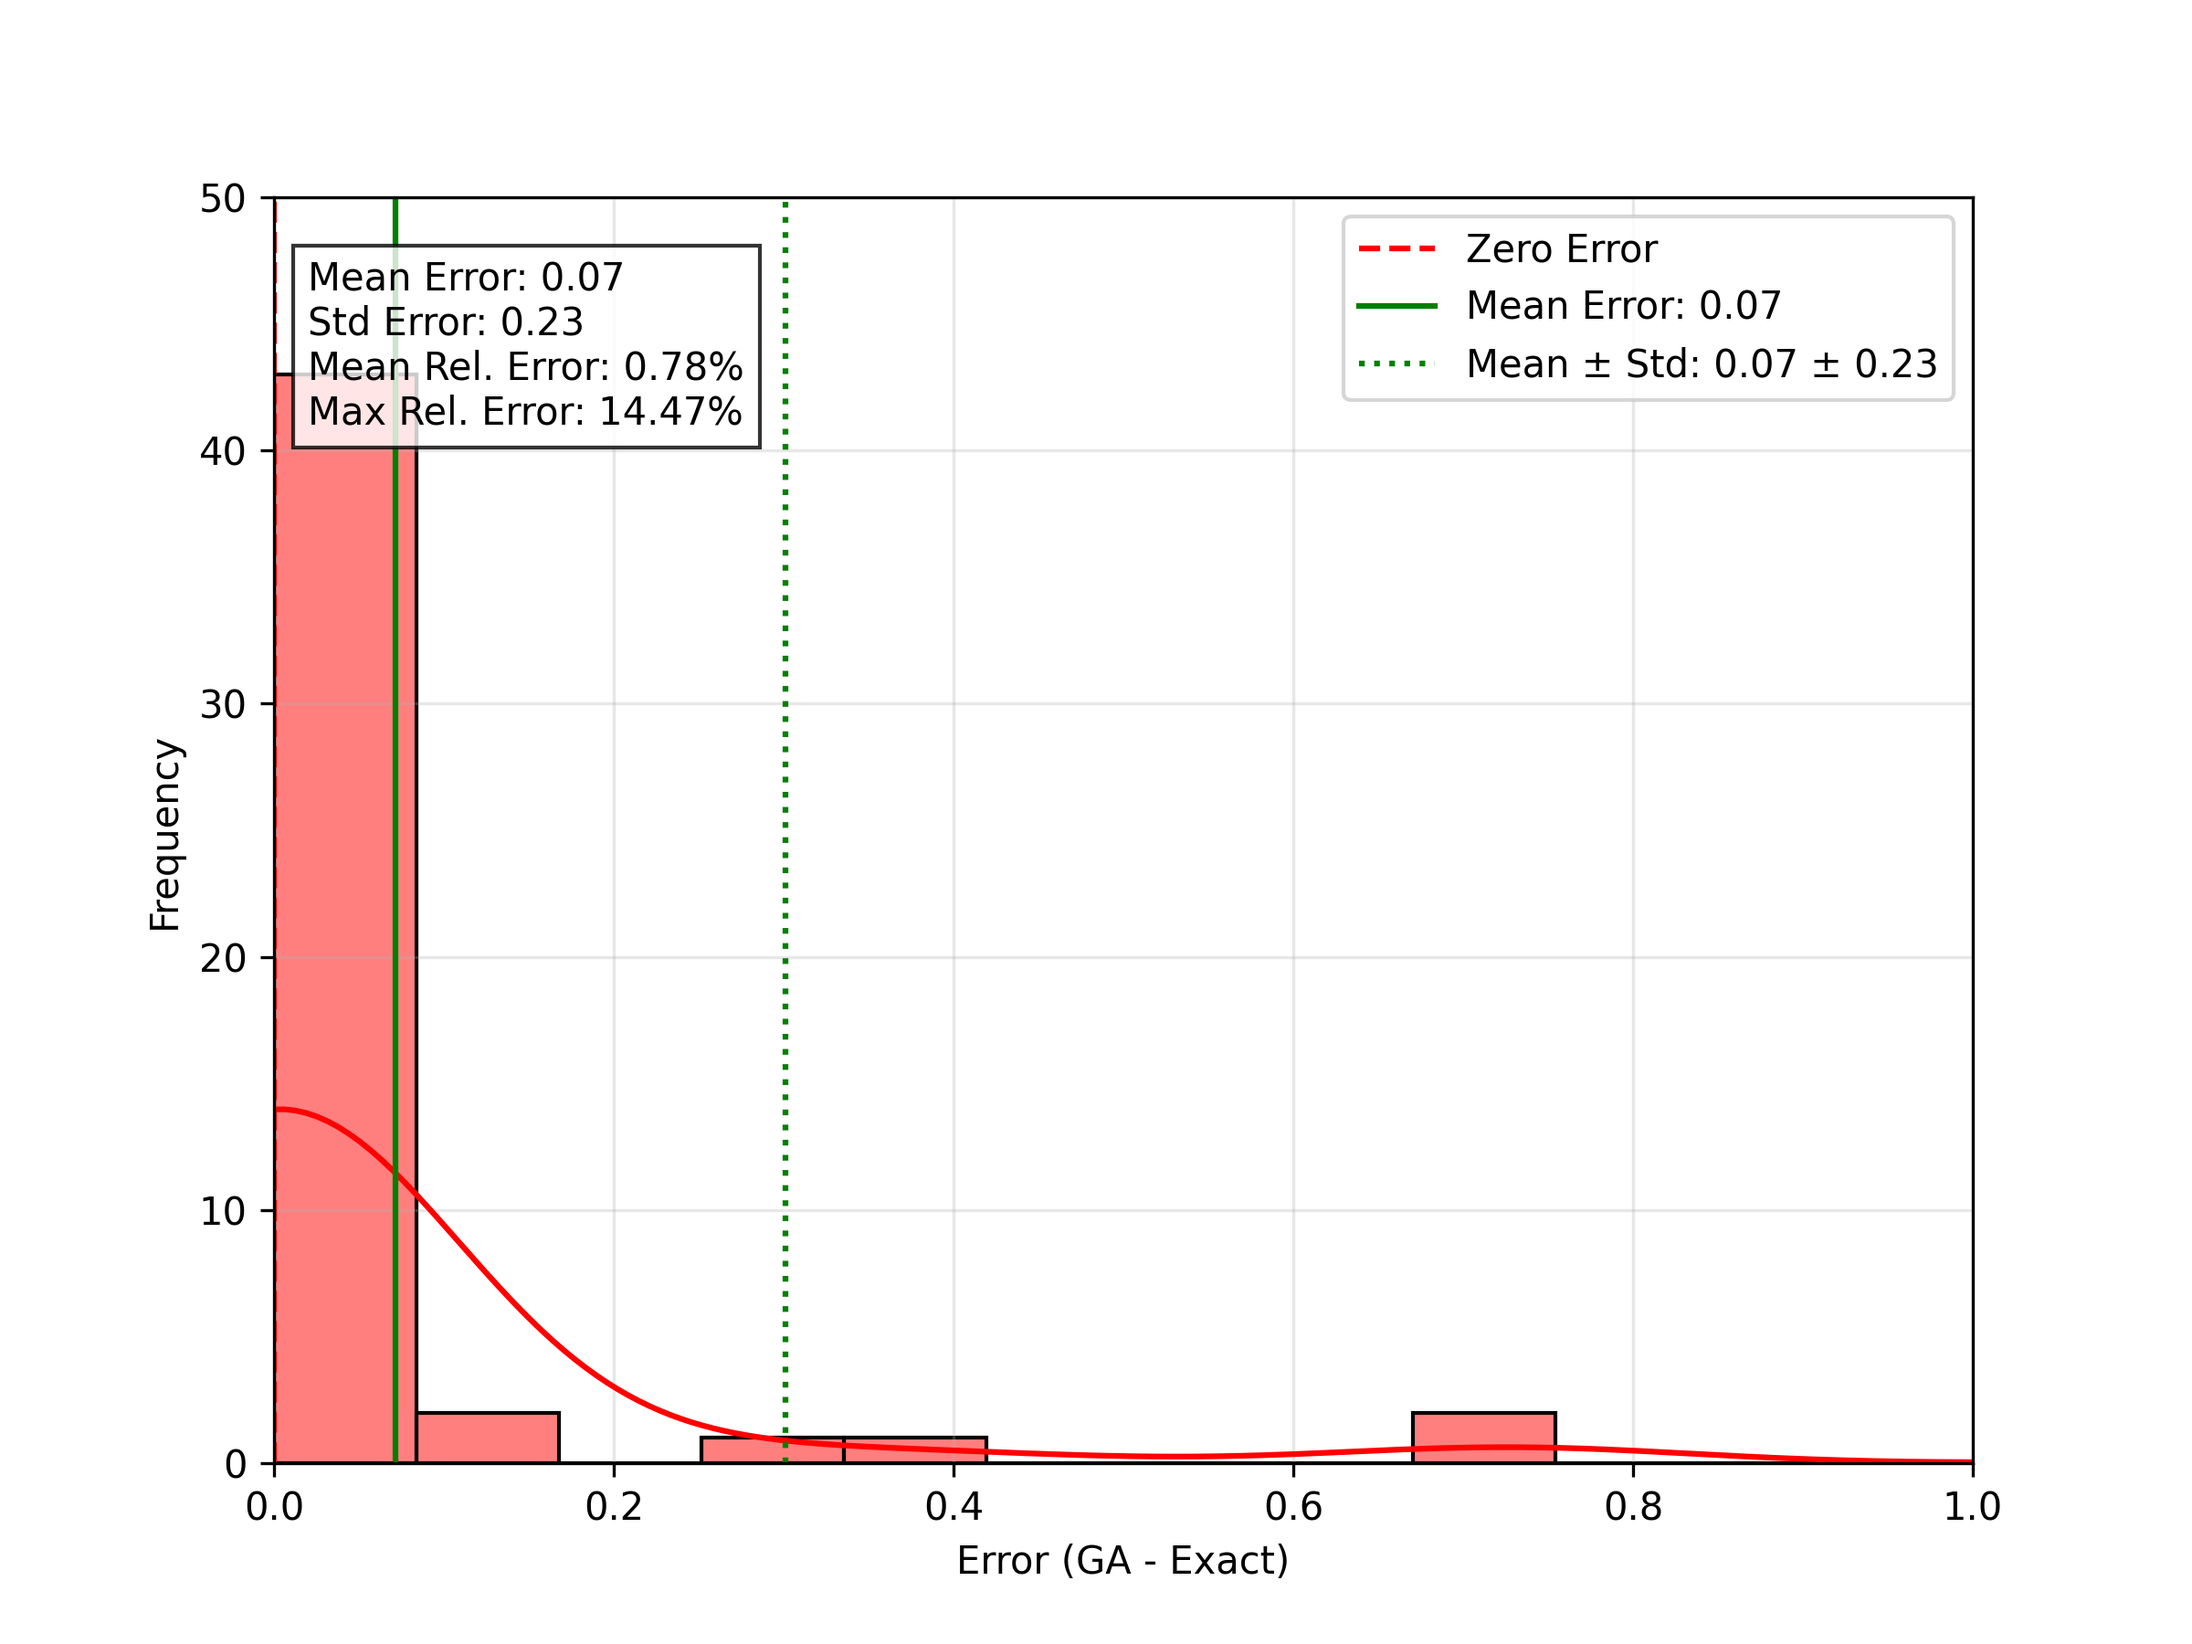
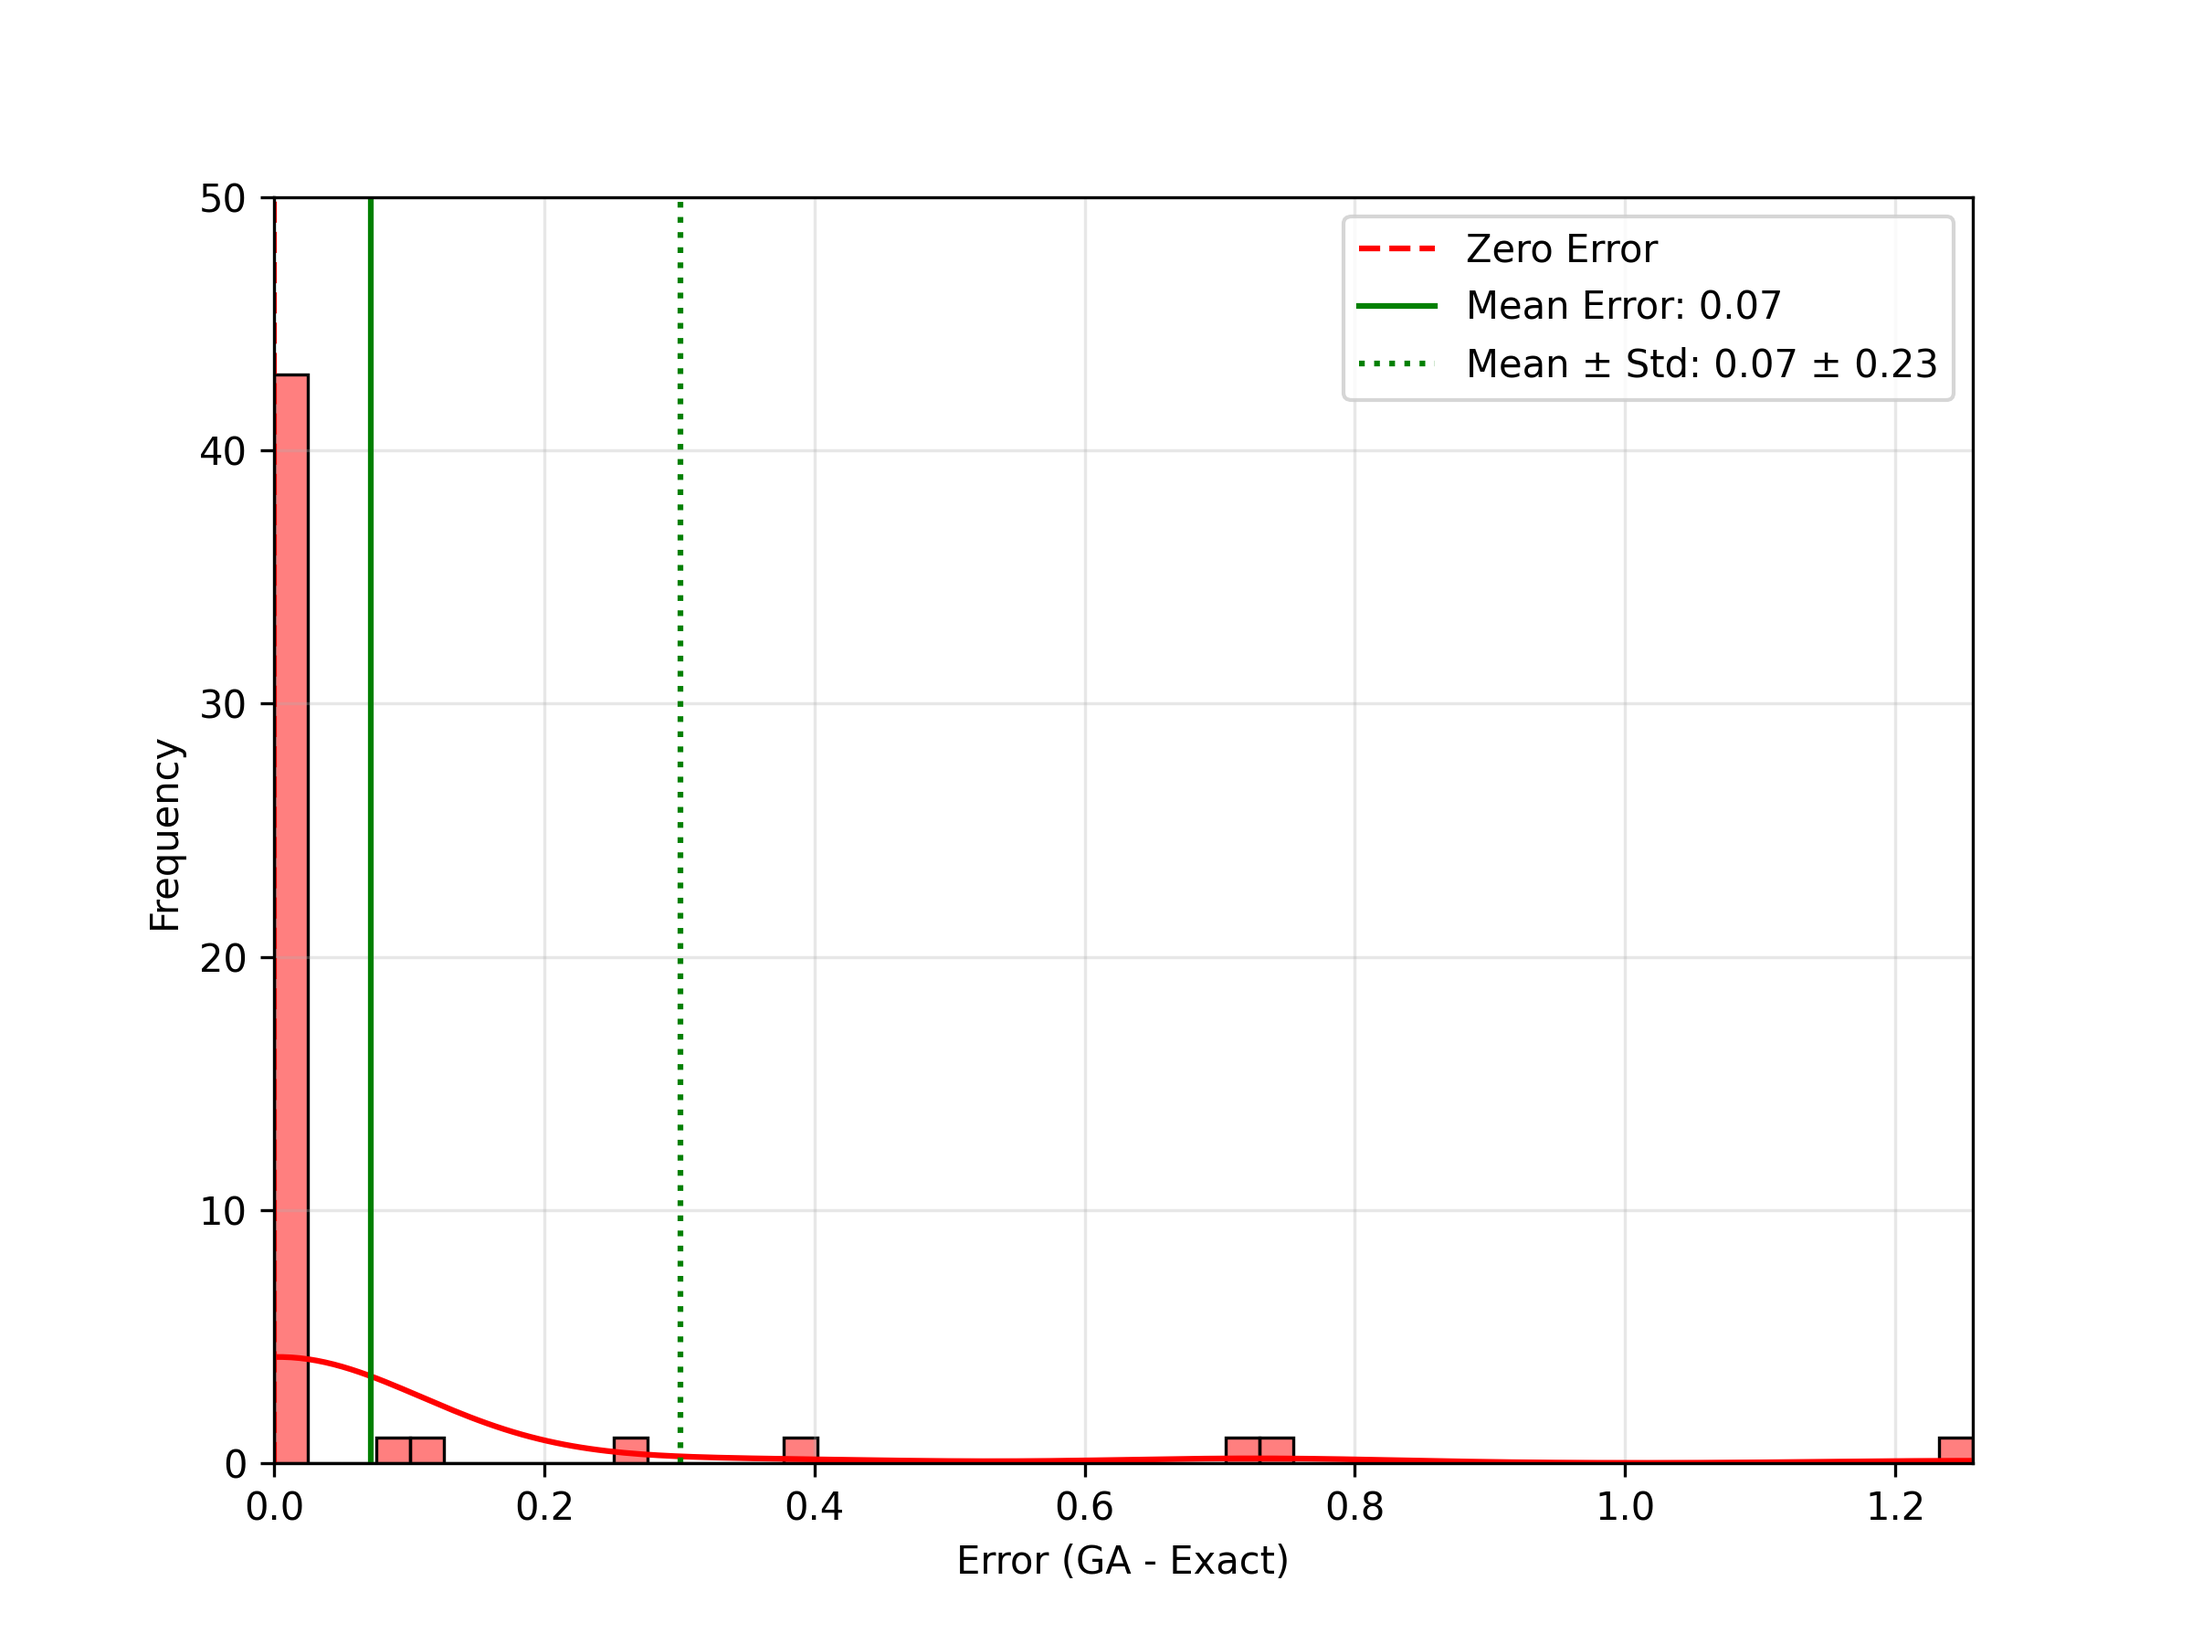
Plot: mse

diff --git a/src/utils/visualization.py b/src/utils/visualization.py
@@ -122,7 +122,7 @@ def plot_mse_comparison(ga_results, exact_results, graph_size, num_instances, na
     plt.figure(figsize=(8,6))
     
     # Plot error distribution as histogram with KDE
-    sns.histplot(errors, kde=True, color='red', bins=min(15, len(errors)//2))
+    sns.histplot(errors, kde=True, color='red', bins=50*int(max(errors)), alpha=0.5)
     
     # Add reference lines
     plt.axvline(x=0, color='r', linestyle='--', label='Zero Error')
@@ -137,22 +137,25 @@ def plot_mse_comparison(ga_results, exact_results, graph_size, num_instances, na
     # Set labels and title
     plt.xlabel('Error (GA - Exact)')
     plt.ylim(0, 50)
-    plt.xlim(0, 1)
+    plt.xlim(0, max(errors))
     plt.ylabel('Frequency')
     #plt.title(f'Error Distribution (N={graph_size}, Instances={num_instances})')
     plt.grid(True, alpha=0.3)
     plt.legend()
     
     # Add statistics as text box
+    """
     stats_text = (
         f"Mean Error: {mean_error:.2f}\n"
         f"Std Error: {std_error:.2f}\n"
         f"Mean Rel. Error: {np.mean(rel_errors):.2f}%\n"
         f"Max Rel. Error: {np.max(rel_errors):.2f}%"
     )
+    
     plt.annotate(stats_text, xy=(0.02, 0.95), xycoords='axes fraction',
                 bbox=dict(facecolor='white', alpha=0.8), fontsize=10,
                 verticalalignment='top')
+    """
     
     # Save results
     base_name = f'output/error_distribution_' + name

diff --git a/src/main.py b/src/main.py
@@ -187,7 +187,7 @@ if __name__ == "__main__":
     parser = argparse.ArgumentParser(description="Two-Terminal Problem Solver")
     parser.add_argument("-m", "--mode", choices=["ga", "benchmark", "timebudget", "roadnetwork"], 
                         default="ga", help="Mode to run")
-    parser.add_argument("-s", "--size", type=int, default=50, help="Graph size")
+    parser.add_argument("-s", "--size", type=int, default=25, help="Graph size")
     parser.add_argument("-p", "--population", type=int, default=5, help="Population size")
     parser.add_argument("-g", "--generations", type=int, default=250, help="Number of generations")
     parser.add_argument("-i", "--instances", type=int, default=50, help="Number of benchmark instances")
